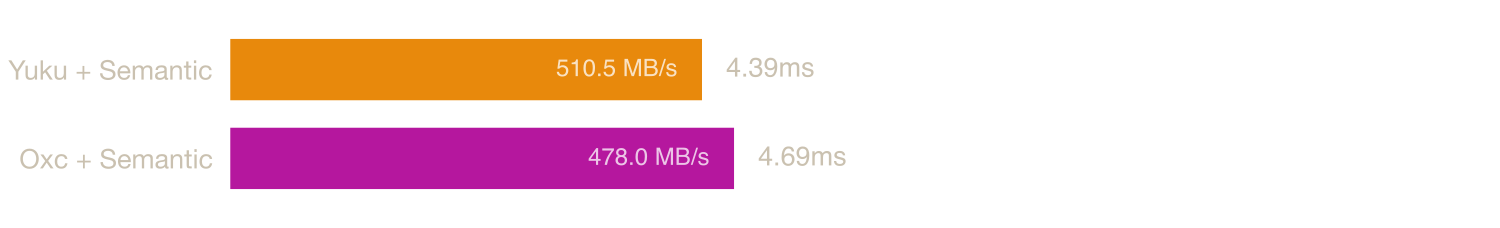
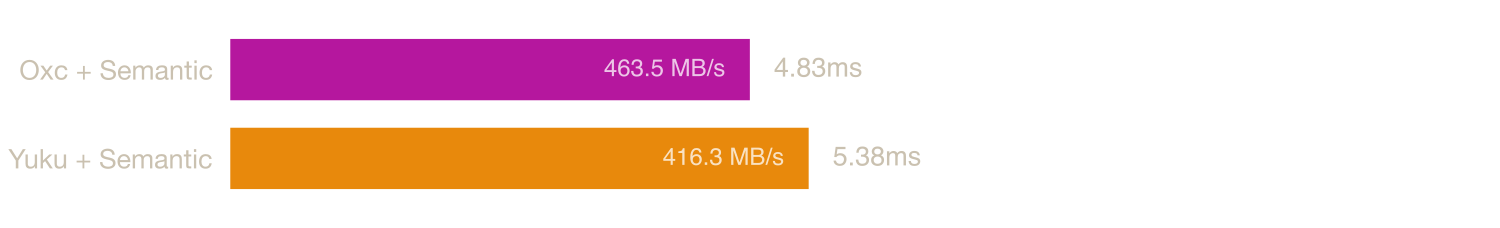
benchmark results on m3 pro

Changed region(s): [[0.0, 0.1535, 0.5827, 0.4605], [0.0, 0.5526, 0.6133, 0.8289]]

diff --git a/README.md b/README.md
@@ -6,10 +6,10 @@ Benchmarks for ECMAScript parsers compiled to native binaries (Zig, Rust), measu
 
 | Property | Value |
 |----------|-------|
-| OS | macOS 25.6.0 (arm64) |
-| CPU | Apple M3 |
-| Cores | 8 |
-| Memory | 16 GB |
+| OS | macOS 24.6.0 (arm64) |
+| CPU | Apple M3 Pro |
+| Cores | 12 |
+| Memory | 36 GB |
 
 ## Parsers
 
@@ -41,9 +41,9 @@ An extensible Rust-based platform for compiling and bundling JavaScript and Type
 
 | Parser | Median | Min | p99 | Relative |
 |--------|--------|-----|-----|----------|
-| Yuku | 20.30 ms | 20.16 ms | 20.87 ms | 1.00× |
-| Oxc | 24.37 ms | 23.89 ms | 25.94 ms | 1.20× |
-| SWC | 42.37 ms | 41.59 ms | 45.22 ms | 2.09× |
+| Yuku | 19.06 ms | 18.46 ms | 20.37 ms | 1.00× |
+| Oxc | 25.52 ms | 24.88 ms | 27.80 ms | 1.34× |
+| SWC | 44.59 ms | 43.71 ms | 50.96 ms | 2.34× |
 
 ### [checker.ts](https://raw.githubusercontent.com/yuku-toolchain/parser-benchmark-files/refs/heads/main/checker.ts)
 
@@ -53,9 +53,9 @@ An extensible Rust-based platform for compiling and bundling JavaScript and Type
 
 | Parser | Median | Min | p99 | Relative |
 |--------|--------|-----|-----|----------|
-| Yuku | 6.74 ms | 6.70 ms | 6.99 ms | 1.00× |
-| Oxc | 7.84 ms | 7.74 ms | 8.25 ms | 1.16× |
-| SWC | 13.71 ms | 13.39 ms | 14.87 ms | 2.03× |
+| Yuku | 6.84 ms | 6.45 ms | 7.11 ms | 1.00× |
+| Oxc | 8.59 ms | 7.95 ms | 9.43 ms | 1.26× |
+| SWC | 14.73 ms | 14.40 ms | 15.07 ms | 2.15× |
 
 ### [lib.dom.d.ts](https://raw.githubusercontent.com/yuku-toolchain/parser-benchmark-files/refs/heads/main/lib.dom.d.ts)
 
@@ -65,9 +65,9 @@ An extensible Rust-based platform for compiling and bundling JavaScript and Type
 
 | Parser | Median | Min | p99 | Relative |
 |--------|--------|-----|-----|----------|
-| Oxc | 2.32 ms | 2.31 ms | 2.42 ms | 1.00× |
-| Yuku | 2.37 ms | 2.36 ms | 2.42 ms | 1.02× |
-| SWC | 4.90 ms | 4.77 ms | 5.17 ms | 2.11× |
+| Oxc | 2.39 ms | 2.33 ms | 3.04 ms | 1.00× |
+| Yuku | 3.33 ms | 3.09 ms | 3.81 ms | 1.39× |
+| SWC | 5.05 ms | 4.83 ms | 5.96 ms | 2.11× |
 
 ### [react.js](https://raw.githubusercontent.com/yuku-toolchain/parser-benchmark-files/refs/heads/main/react.js)
 
@@ -77,9 +77,9 @@ An extensible Rust-based platform for compiling and bundling JavaScript and Type
 
 | Parser | Median | Min | p99 | Relative |
 |--------|--------|-----|-----|----------|
-| Yuku | 0.12 ms | 0.12 ms | 0.14 ms | 1.00× |
-| Oxc | 0.16 ms | 0.16 ms | 0.18 ms | 1.34× |
-| SWC | 0.28 ms | 0.27 ms | 0.38 ms | 2.37× |
+| Yuku | 0.12 ms | 0.11 ms | 0.14 ms | 1.00× |
+| Oxc | 0.17 ms | 0.16 ms | 0.24 ms | 1.43× |
+| SWC | 0.30 ms | 0.29 ms | 1.70 ms | 2.53× |
 
 ## Semantic
 
@@ -95,8 +95,8 @@ The benchmarks below measure parsing followed by this additional pass, which bui
 
 | Parser | Median | Min | p99 | Relative |
 |--------|--------|-----|-----|----------|
-| Yuku + Semantic | 44.97 ms | 44.13 ms | 53.25 ms | 1.00× |
-| Oxc + Semantic | 55.77 ms | 54.24 ms | 67.82 ms | 1.24× |
+| Yuku + Semantic | 43.12 ms | 41.78 ms | 58.15 ms | 1.00× |
+| Oxc + Semantic | 57.25 ms | 55.66 ms | 61.20 ms | 1.33× |
 
 ### [checker.ts](https://raw.githubusercontent.com/yuku-toolchain/parser-benchmark-files/refs/heads/main/checker.ts)
 
@@ -104,8 +104,8 @@ The benchmarks below measure parsing followed by this additional pass, which bui
 
 | Parser | Median | Min | p99 | Relative |
 |--------|--------|-----|-----|----------|
-| Yuku + Semantic | 15.61 ms | 15.44 ms | 16.29 ms | 1.00× |
-| Oxc + Semantic | 18.30 ms | 18.14 ms | 19.12 ms | 1.17× |
+| Yuku + Semantic | 15.29 ms | 14.65 ms | 17.15 ms | 1.00× |
+| Oxc + Semantic | 19.03 ms | 18.72 ms | 20.53 ms | 1.24× |
 
 ### [lib.dom.d.ts](https://raw.githubusercontent.com/yuku-toolchain/parser-benchmark-files/refs/heads/main/lib.dom.d.ts)
 
@@ -113,8 +113,8 @@ The benchmarks below measure parsing followed by this additional pass, which bui
 
 | Parser | Median | Min | p99 | Relative |
 |--------|--------|-----|-----|----------|
-| Yuku + Semantic | 4.39 ms | 4.36 ms | 4.50 ms | 1.00× |
-| Oxc + Semantic | 4.69 ms | 4.59 ms | 7.54 ms | 1.07× |
+| Oxc + Semantic | 4.83 ms | 4.64 ms | 6.44 ms | 1.00× |
+| Yuku + Semantic | 5.38 ms | 5.16 ms | 5.91 ms | 1.11× |
 
 ### [react.js](https://raw.githubusercontent.com/yuku-toolchain/parser-benchmark-files/refs/heads/main/react.js)
 
@@ -122,8 +122,8 @@ The benchmarks below measure parsing followed by this additional pass, which bui
 
 | Parser | Median | Min | p99 | Relative |
 |--------|--------|-----|-----|----------|
-| Yuku + Semantic | 0.27 ms | 0.27 ms | 0.28 ms | 1.00× |
-| Oxc + Semantic | 0.35 ms | 0.34 ms | 0.46 ms | 1.29× |
+| Yuku + Semantic | 0.27 ms | 0.26 ms | 0.31 ms | 1.00× |
+| Oxc + Semantic | 0.35 ms | 0.34 ms | 0.40 ms | 1.30× |
 
 ## Run Benchmarks
 
@@ -148,25 +148,13 @@ cd ecmascript-parser-benchmark-native
 bun install
 ```
 
-3. Download the benchmark files:
-
-```bash
-bun load-files
-```
-
-4. Build the parsers:
-
-```bash
-bun run build
-```
-
-5. Run benchmarks:
+3. Run benchmarks:
 
 ```bash
 bun bench
 ```
 
-This will run benchmarks on all test files. Results are saved to the `result/` directory.
+This will build all parsers and run benchmarks on all test files. Results are saved to the `result/` directory.
 
 ## Methodology
 
